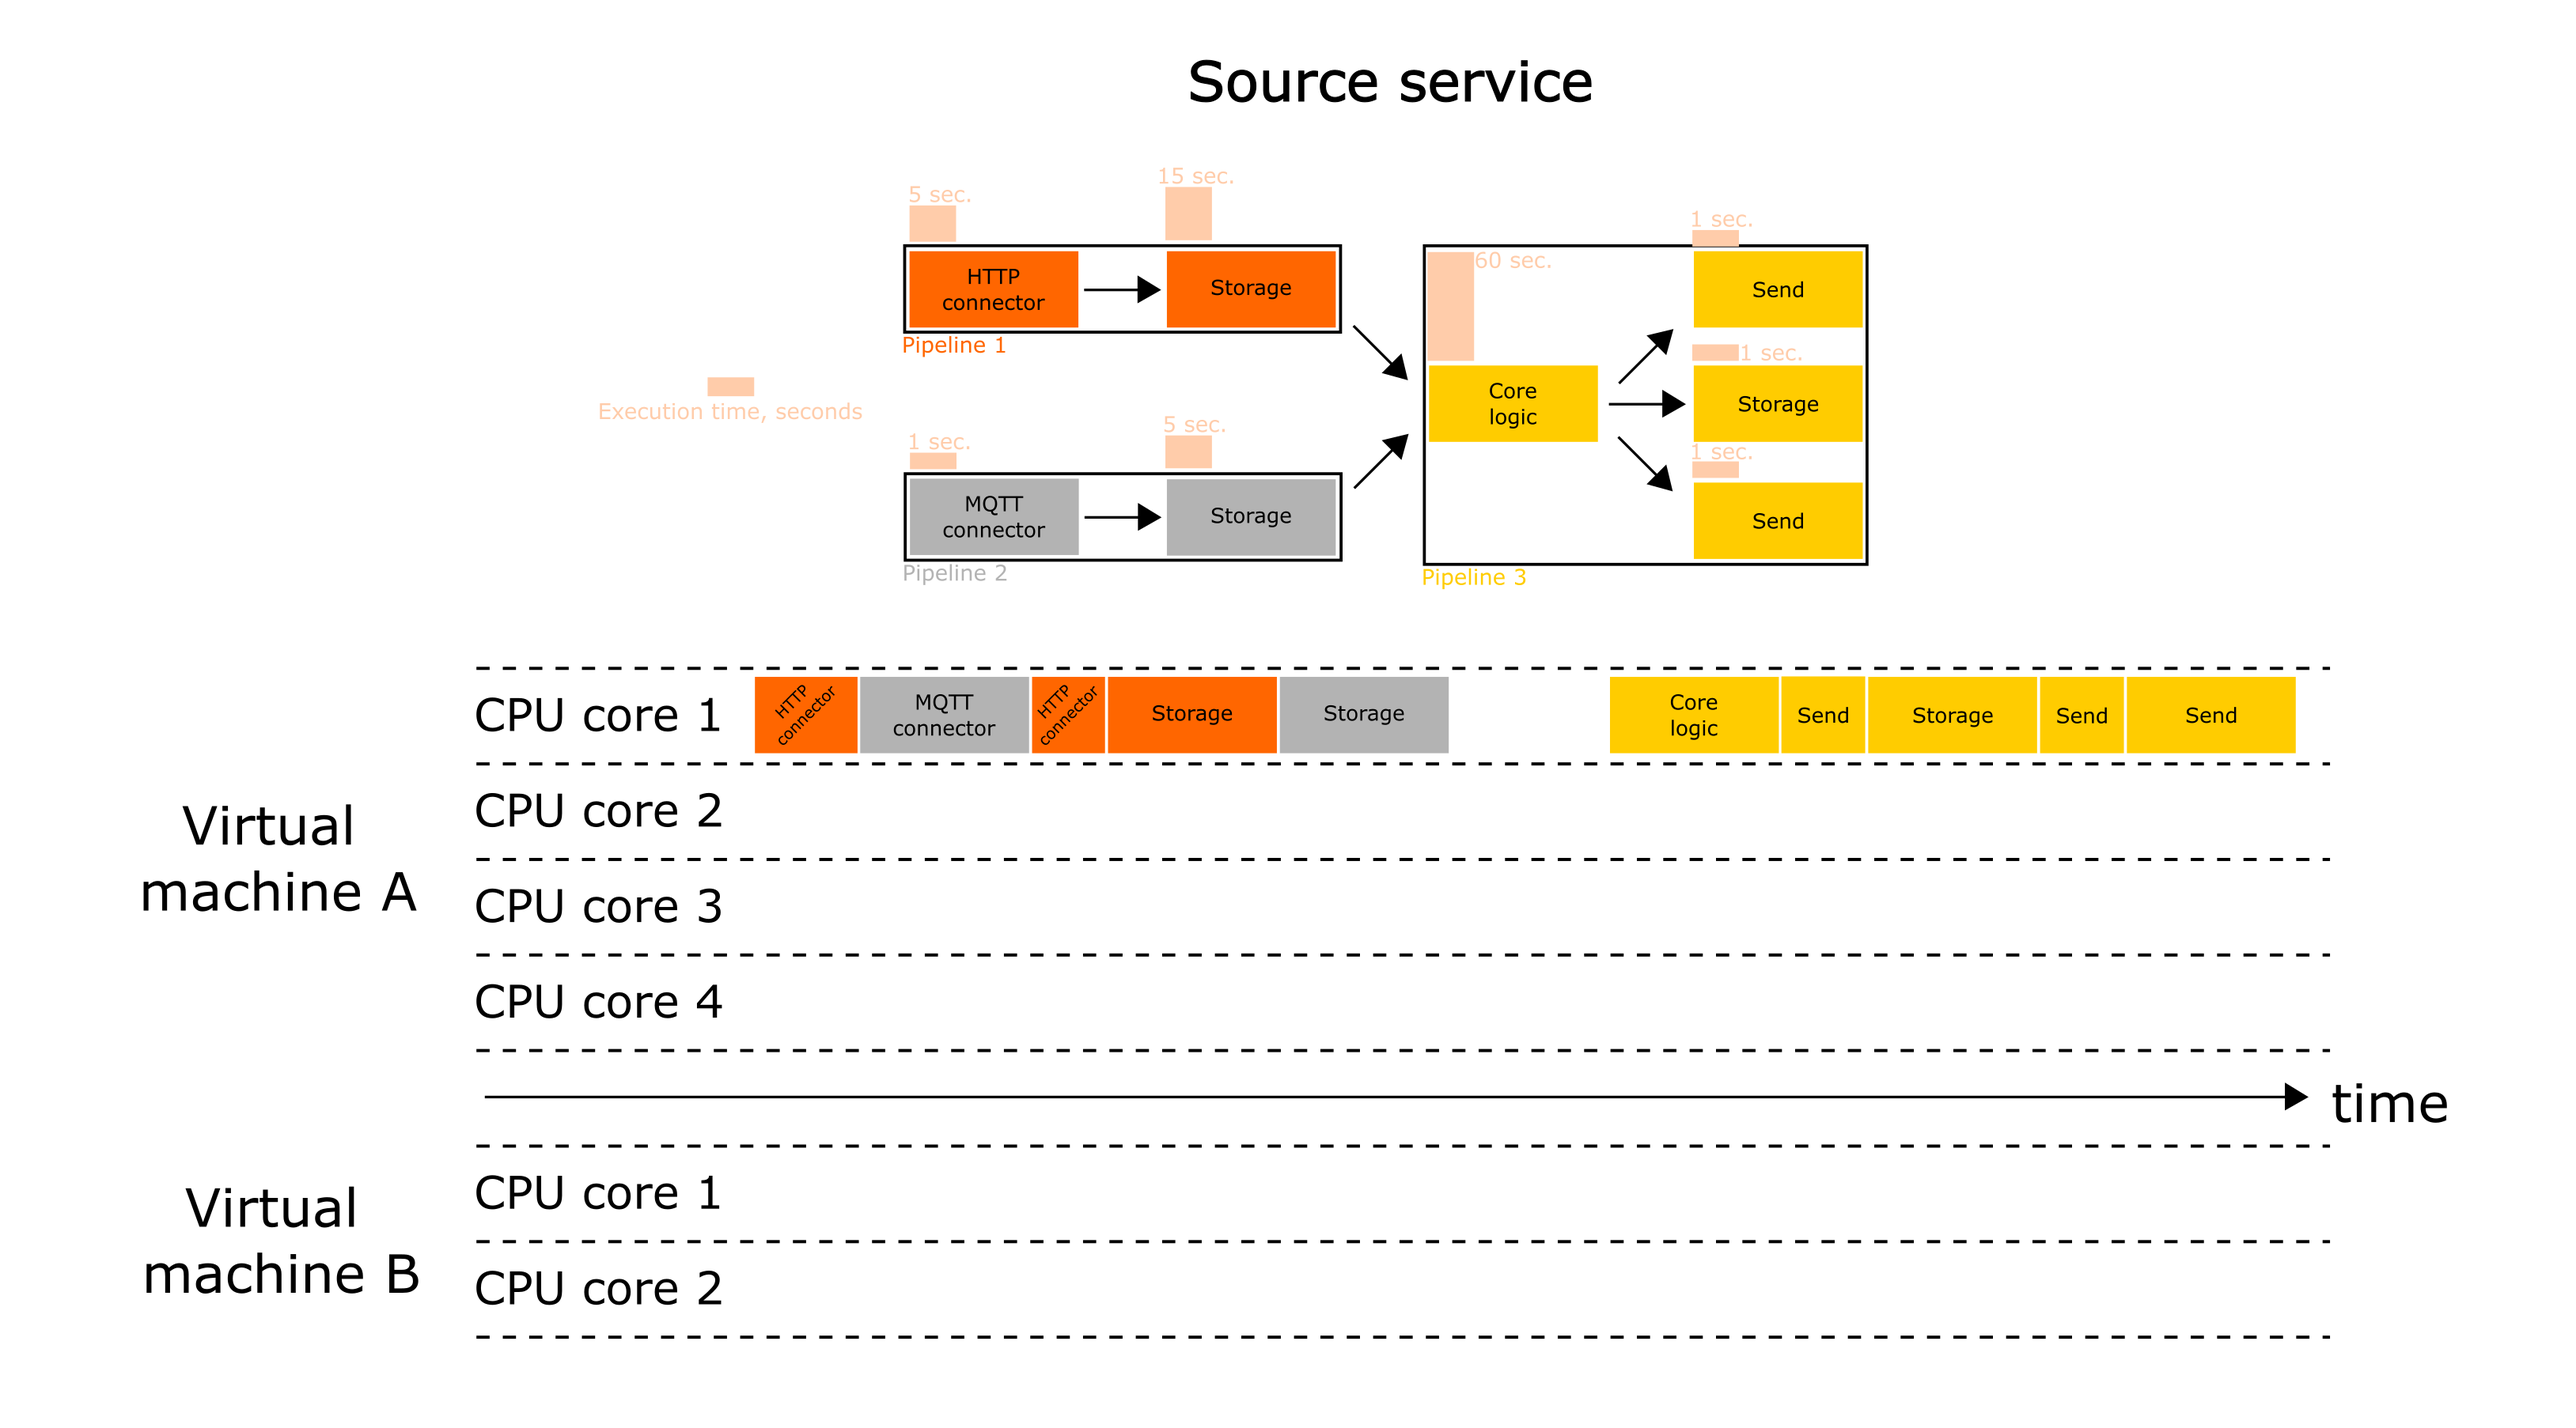
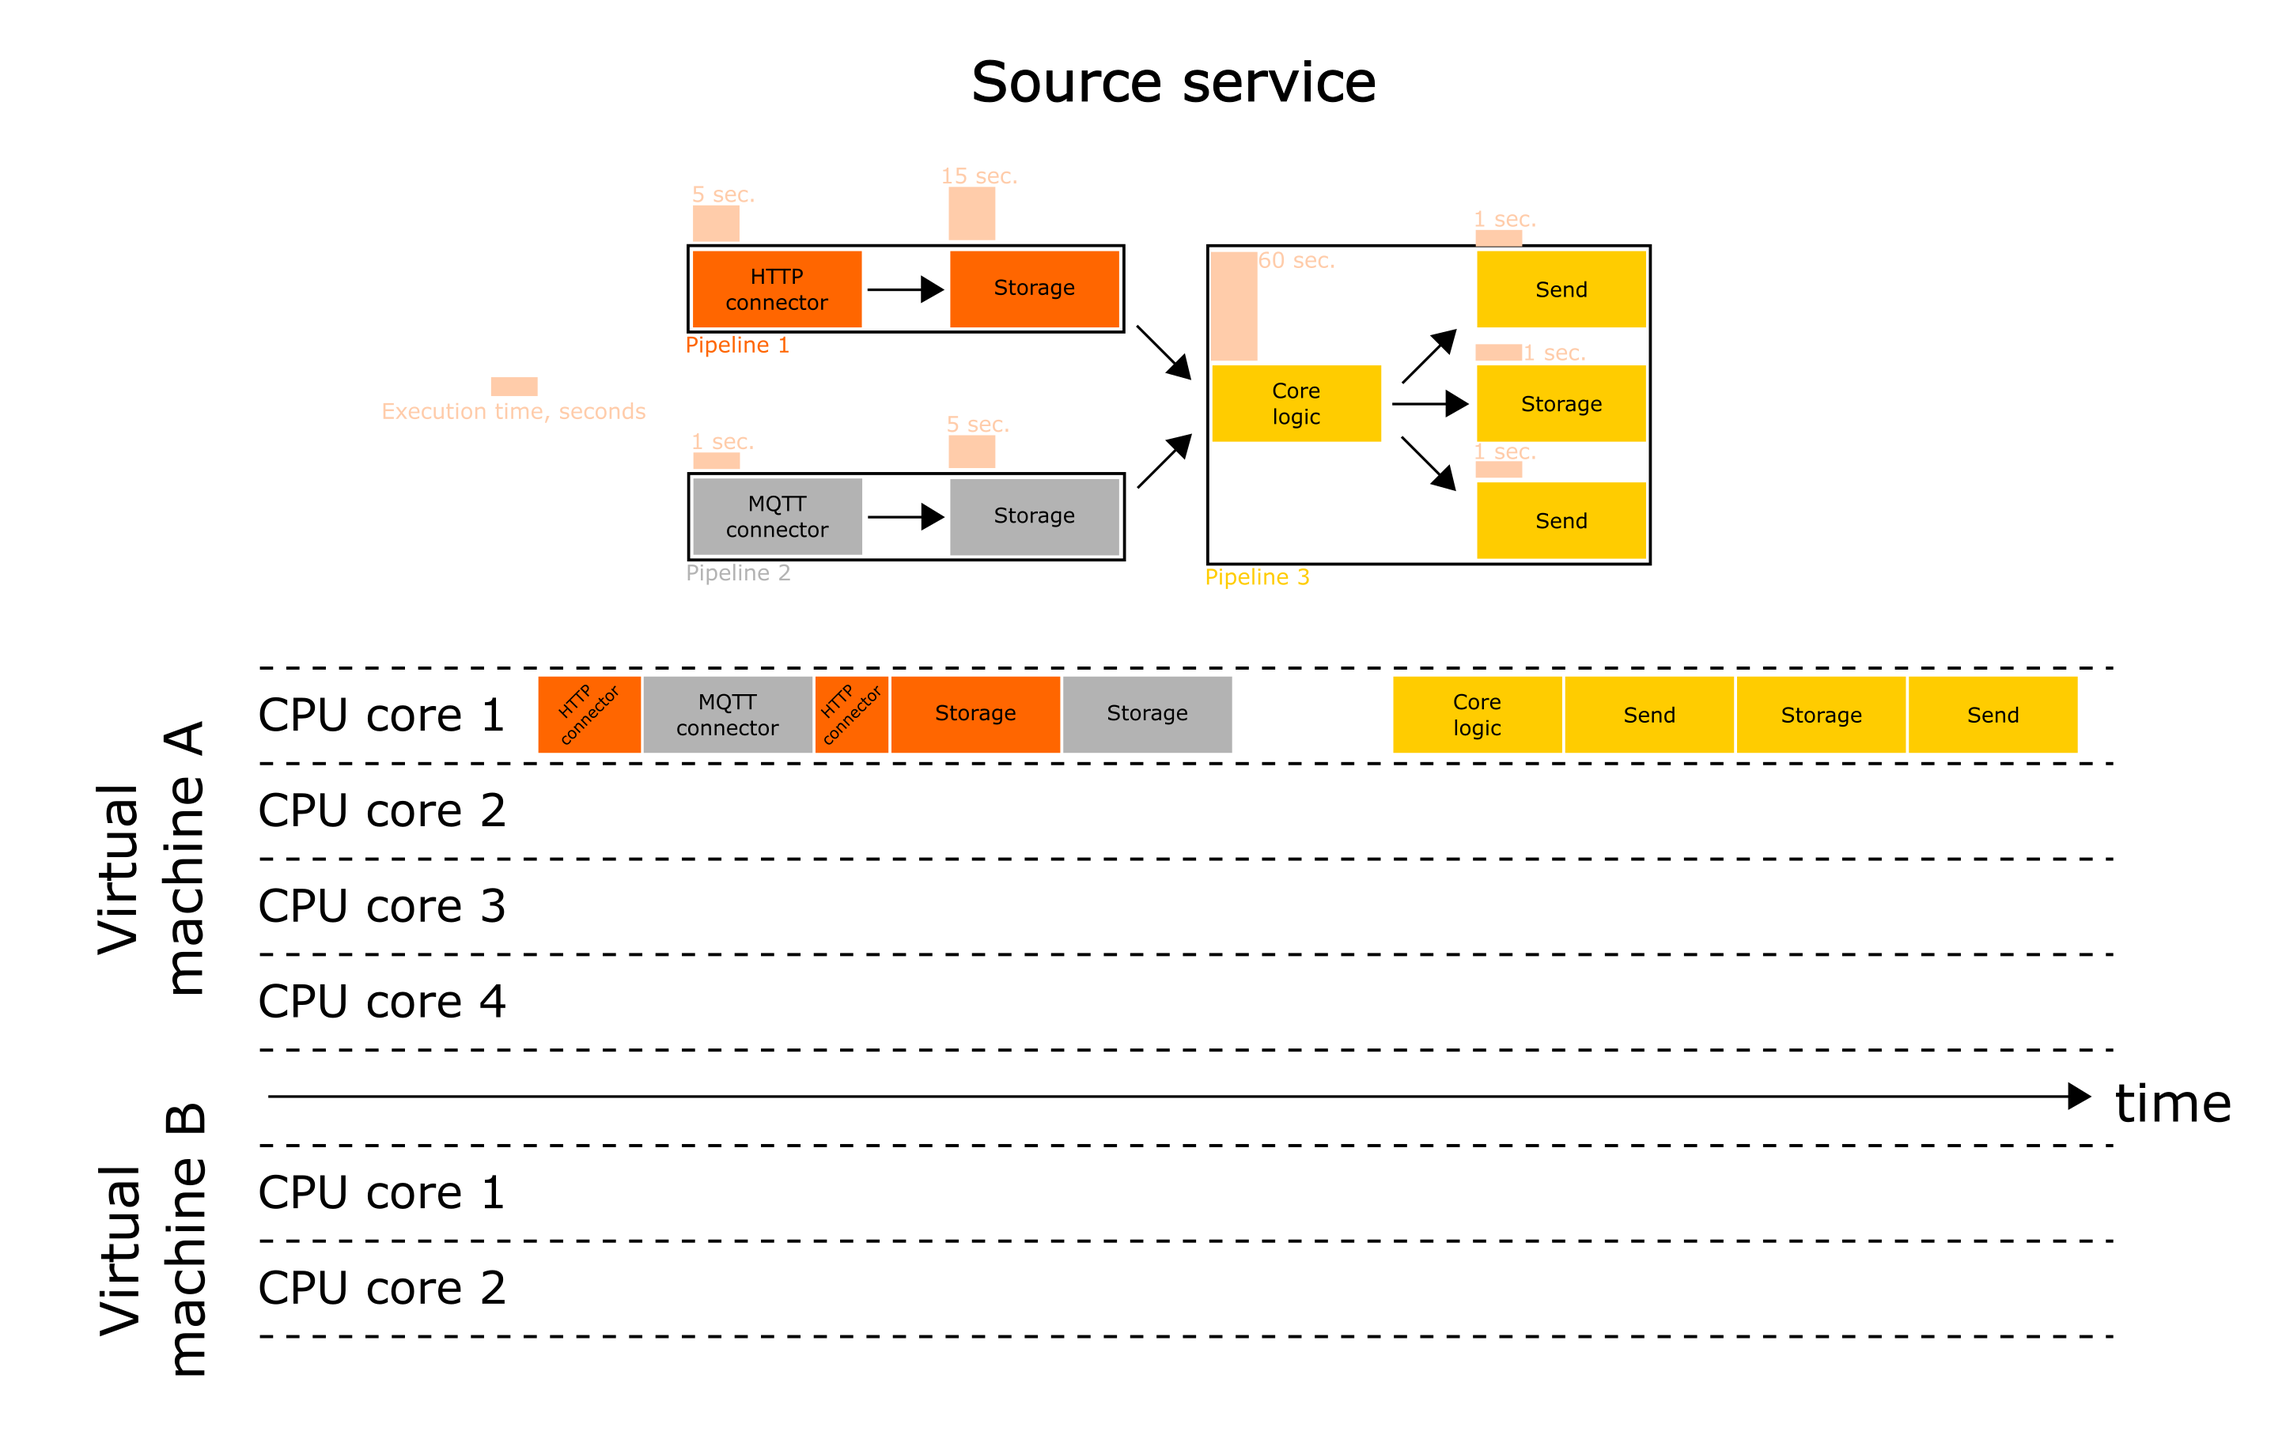
scalability section improved

diff --git a/docs/common/scalability.md b/docs/common/scalability.md
@@ -28,7 +28,7 @@ This allows the interpreter to switch the context when a particular stage is pen
 
 Suppose that we want to speed up each pipeline. Let's try!
 
-## Simple tips
+## Simple tips (thread into process)
 
 If the service is not running fast enough and:
 
@@ -38,6 +38,12 @@ If the service is not running fast enough and:
 
 Then you should try to run the service in parallel mode. 
 Using the parameter `use_threads=False` wiredflow will start the pipelines not in threads (as is done by default), but in processes.
+
+<img src="https://raw.githubusercontent.com/wiredhut/wiredflow/main/docs/media/scalability_process.png" width="800"/>
+
+This trick does not speed up service at the stages level. 
+It allows more efficient use of the multicore processor architecture on the pipelines level. 
+However, this approach does not always help to speed up your service. 
 If that doesn't help, then see the tips below.
 
 ## Tokenization
@@ -63,9 +69,20 @@ intelligently designed architecture of the solution. This also means that this i
 
 Check [page with more detailed recommendations](./scalability_tokenization.md). 
 
+In the current example we did the following: 
+
+1. Split the core logic into two parts, which can be executed simultaneously (Stage into stages);
+2. Compiled two pipelines from one with core logic (Pipeline into pipelines);
+3. Pipeline 4 runs on a separate, more powerful virtual machine (Flow into flows).
+
+<img src="https://raw.githubusercontent.com/wiredhut/wiredflow/main/docs/media/scalability_tokenization.png" width="800"/>
+
+Thus, we have simultaneously reduced the execution time of individual stages 
+as well as of entire pipelines and the service.
+
 ## Remote launch
-Another approach is to remotely run the most computationally expensive operations on remote servers.
-In this case, Wiredflow will be a tool for orchestrating the system and will provide consistency.
+Another approach is to remotely run the most computationally expensive operations on remote (surprisingly) servers.
+In this case, Wiredflow will become a tool for orchestrating the system and will provide consistency.
 
 It is worth noting that the frameworks are not in competence with each other. 
 On the contrary, Wiredflow and Apache Airflow, for example,
@@ -74,6 +91,11 @@ lightweight Wiredflow pipelines and complex scalable Apache
 Airflow-based pipelines in the same service. Therefore, you 
 can always use the tools used in your team to remotely 
 run high-load parts of the applications.
+
+<img src="https://raw.githubusercontent.com/wiredhut/wiredflow/main/docs/media/scalability_remote.png" width="800"/>
+
+As can be seen from the scheme, we simply use a more powerful server to 
+execute the most computationally intensive stages.
 
 For more information on remote start and its capabilities, see [this more detailed guide](./scalability_remote.md).
 

diff --git a/docs/common/functionality_review.md b/docs/common/functionality_review.md
@@ -12,6 +12,27 @@ A **service** can consist of one or more **pipelines**.
 
 That's it - move on!
 
+## What services can be designed?
+
+With the functionality of this library, it is possible to compile services that:
+
+1. Get data from external sources (e.g., using HTTP);
+2. Transform data, merge data from various sources, perform calculations - business logic;
+3. Save data into databases or files (.csv, .json);
+4. Send messages (e.g. alerts) to external services;
+5. Repeat above mentioned actions with a certain period (by schedule) - it is possible to use an internal scheduler;
+6. Log execution and catch failures from each service component to ensure the consistency of the whole flow
+
+As stated in the library description, wiredflow can be used as a regular 
+Python library, and you can run prototypes locally without using additional 
+technologies such as CRON or docker. 
+However, you can always use additional tools if you wish. 
+Thus, the library is suitable for constructing and running ETL services.
+
+Wiredflow is a multifunctional constructor. The users define the structure of 
+the pipelines and the entire service architecture on their own. 
+However, wiredflow [will suggest the most reliable option](friend.md).
+
 ## What stages can a Pipeline consist of?
 
 Wiredflow allows users to design services with any number of pipelines. Pipelines can also consist of different number of stages.
@@ -20,11 +41,12 @@ Let's take a look at the possible combinations:
 <img src="https://raw.githubusercontent.com/wiredhut/wiredflow/main/docs/media/flow_examples.png" width="800"/>
 
 Thus, there are the following possible stages in pipelines:
-* **Configuration** - requires a custom implementation. The stage configures the parameters for the following stages;
-* **Connectors** (HTTP and MQTT connector) - connector to external data source;
-* **Storage** - save data into file or database;
-* **Core logic** - requires a custom implementation. Business logic of developing application;
-* **Send** - send message from service to external services.
+
+- **Configuration** - requires a custom implementation. The stage configures the parameters for the following stages;
+- **Connectors** (HTTP and MQTT connector) - connector to external data source;
+- **Storage** - save data into file or database;
+- **Core logic** - requires a custom implementation. Business logic of developing application;
+- **Send** - send message from service to external services.
 
 Some stages always require custom implementation, others have several possible default configurations.
 Wiredflow uses a builder to generate services, so the pipelines are modified by sequentially adding blocks. 
